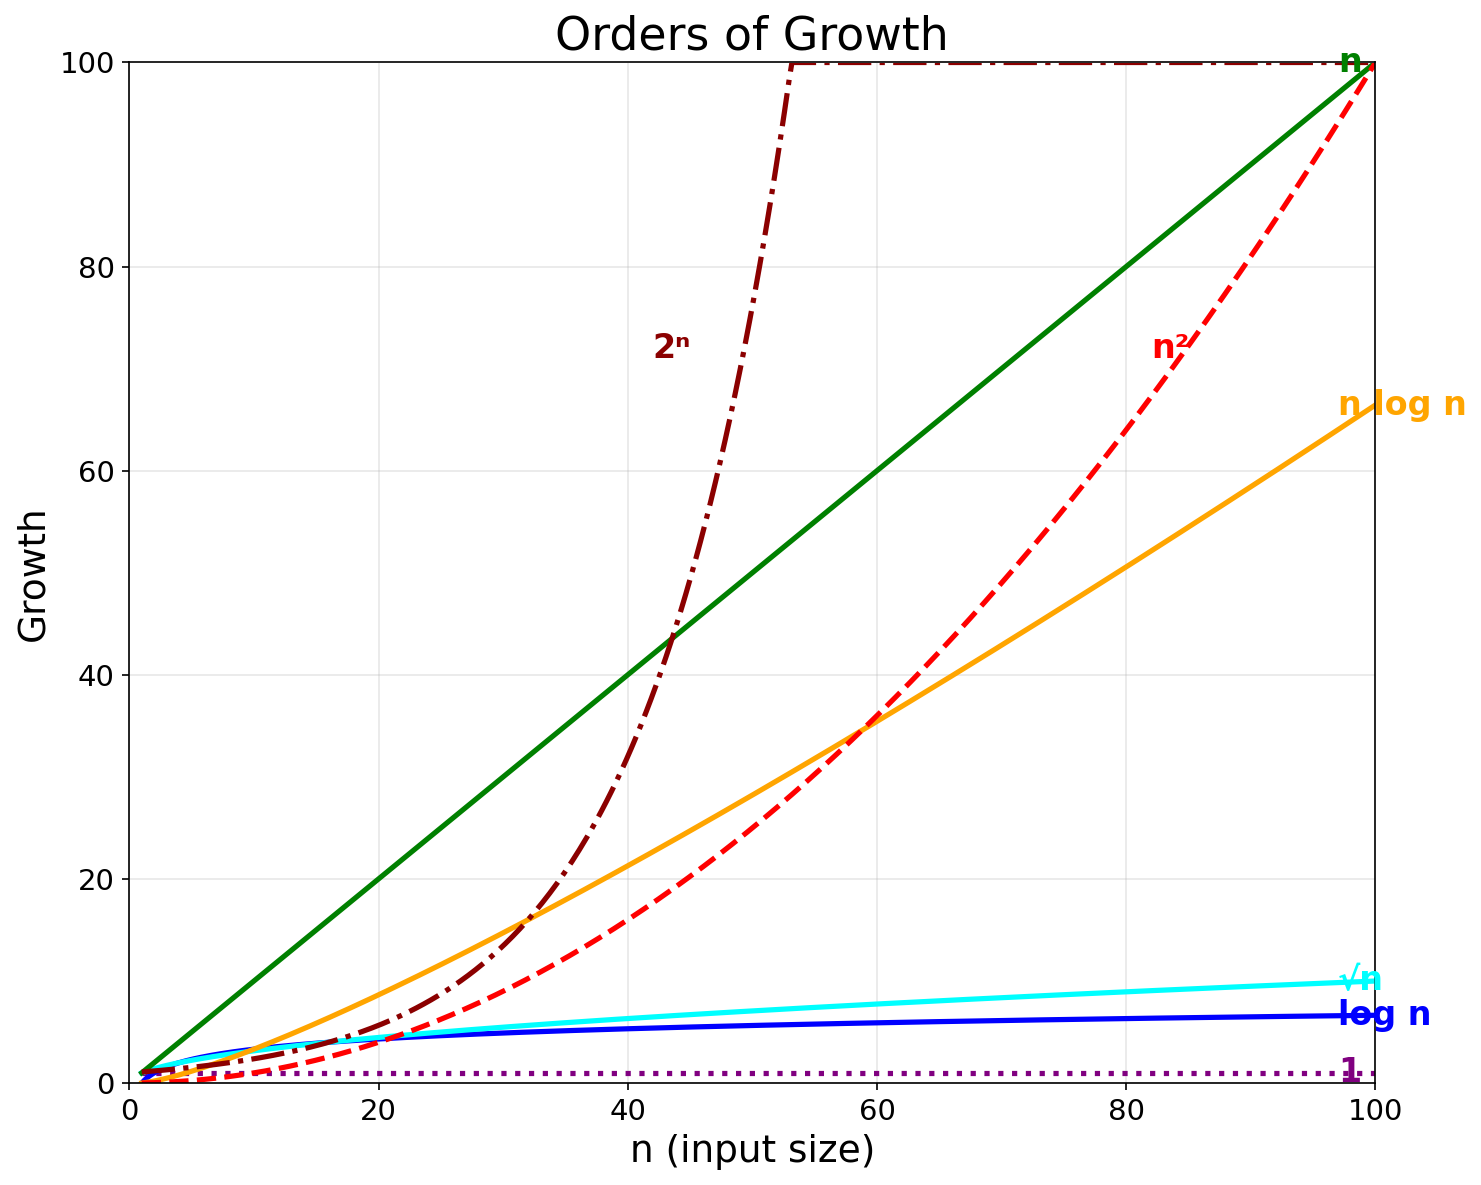
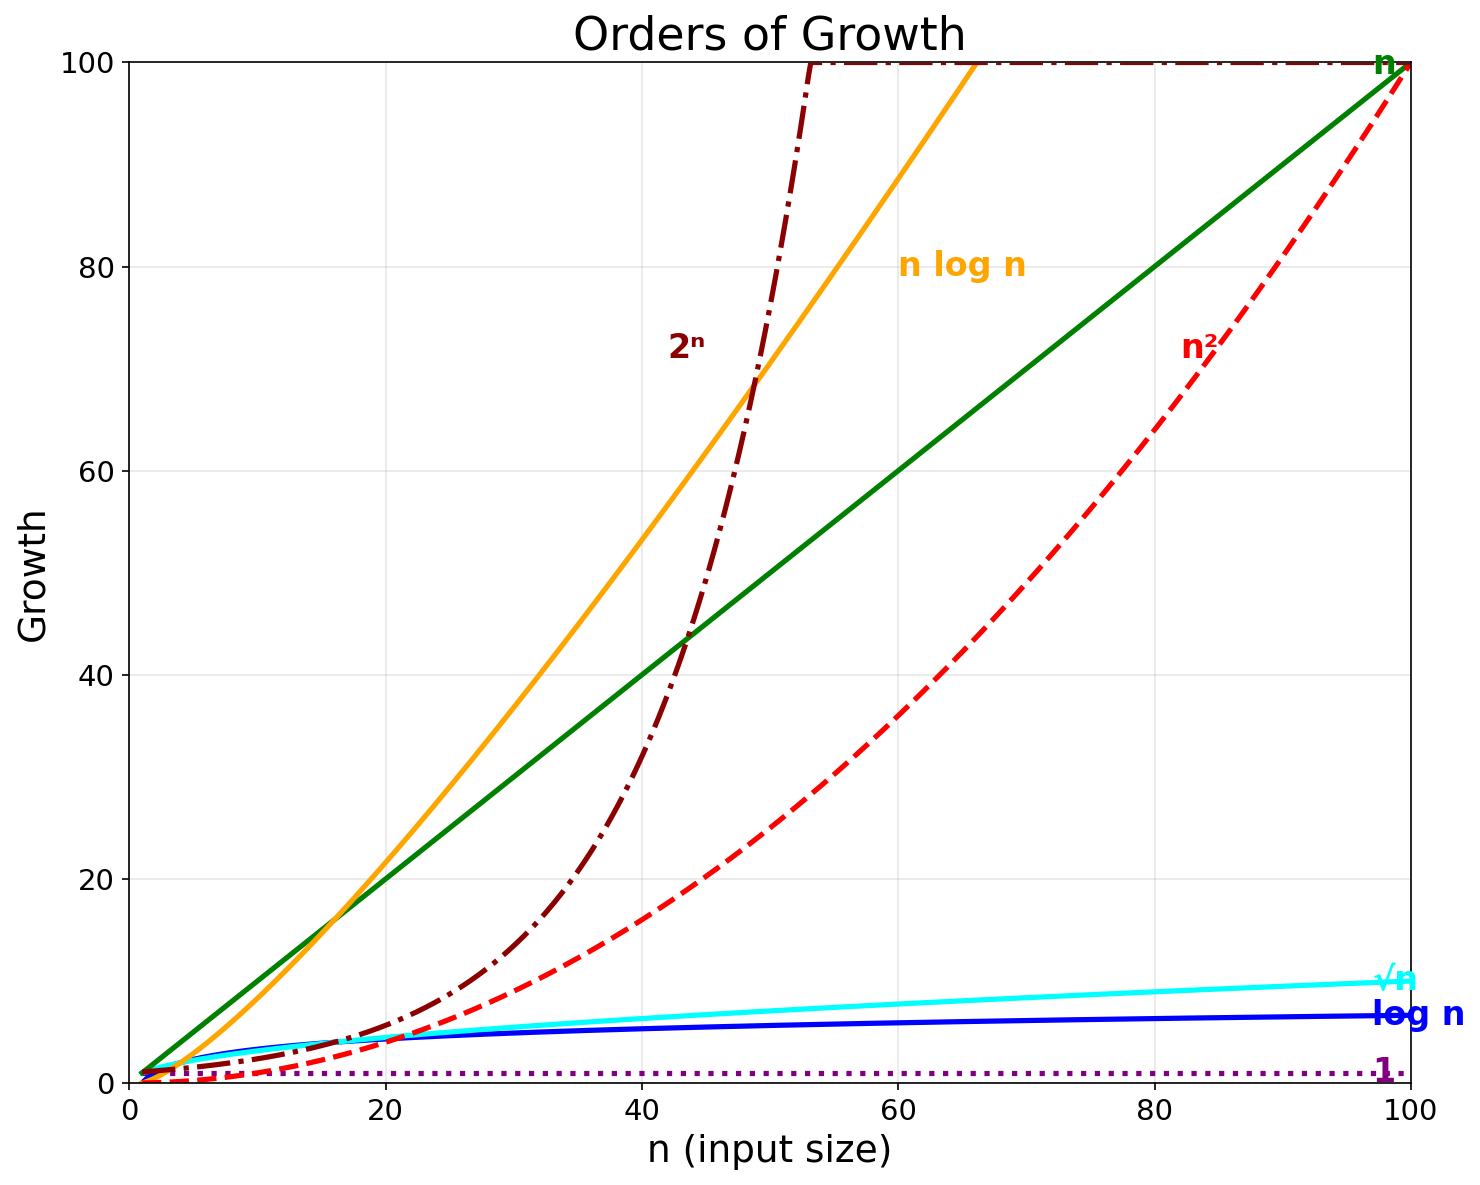
lect03

diff --git a/lect03/growth_curves.py b/lect03/growth_curves.py
@@ -17,9 +17,9 @@ def generate_growth_curves(labeled=True, output_file=None):
     log_n = np.log2(n)
     sqrt_n = np.sqrt(n)
     linear = n
-    n_log_n = n * np.log2(n) / 10  # scaled to fit
-    quadratic = (n ** 2) / 100     # scaled to fit
-    exponential = 2 ** (n / 8)     # scaled to shoot off graph dramatically
+    n_log_n = n * np.log2(n) / 4
+    quadratic = (n ** 2) / 100   
+    exponential = 2 ** (n / 8)    
 
     fig, ax = plt.subplots(figsize=(10, 8))
 
@@ -42,9 +42,9 @@ def generate_growth_curves(labeled=True, output_file=None):
     if labeled:
         ax.set_title('Orders of Growth', fontsize=22)
         # Add function labels
-        ax.text(97, linear[-1], 'n', fontsize=16, fontweight='bold',
+        ax.text(97, linear[-2], 'n', fontsize=16, fontweight='bold',
                 color='green', va='center')
-        ax.text(97, n_log_n[-1], 'n log n', fontsize=16, fontweight='bold',
+        ax.text(60,  80, 'n log n', fontsize=16, fontweight='bold',
                 color='orange', va='center')
         ax.text(82, 72, 'n²', fontsize=16, fontweight='bold',
                 color='red', va='center')
@@ -59,9 +59,9 @@ def generate_growth_curves(labeled=True, output_file=None):
     else:
         ax.set_title('', fontsize=22)  # No title - instructor provides context
         # Add letter labels instead
-        ax.text(97, linear[-1], 'A', fontsize=18, fontweight='bold',
+        ax.text(97, linear[-2], 'A', fontsize=18, fontweight='bold',
                 color='green', va='center')
-        ax.text(97, n_log_n[-1], 'B', fontsize=18, fontweight='bold',
+        ax.text(60, 80, 'B', fontsize=18, fontweight='bold',
                 color='orange', va='center')
         ax.text(82, 72, 'C', fontsize=18, fontweight='bold',
                 color='red', va='center')
@@ -92,5 +92,5 @@ if __name__ == "__main__":
     generate_growth_curves(labeled=True, output_file='growth_curves_labeled.png')
 
     print("\nGenerated files:")
-    print("  - growth_curves_unlabeled.png  (Slide 8: student discussion)")
-    print("  - growth_curves_labeled.png    (Slide 9: reveal + activity)")
+    print("  - growth_curves_unlabeled.png ")
+    print("  - growth_curves_labeled.png  ")
